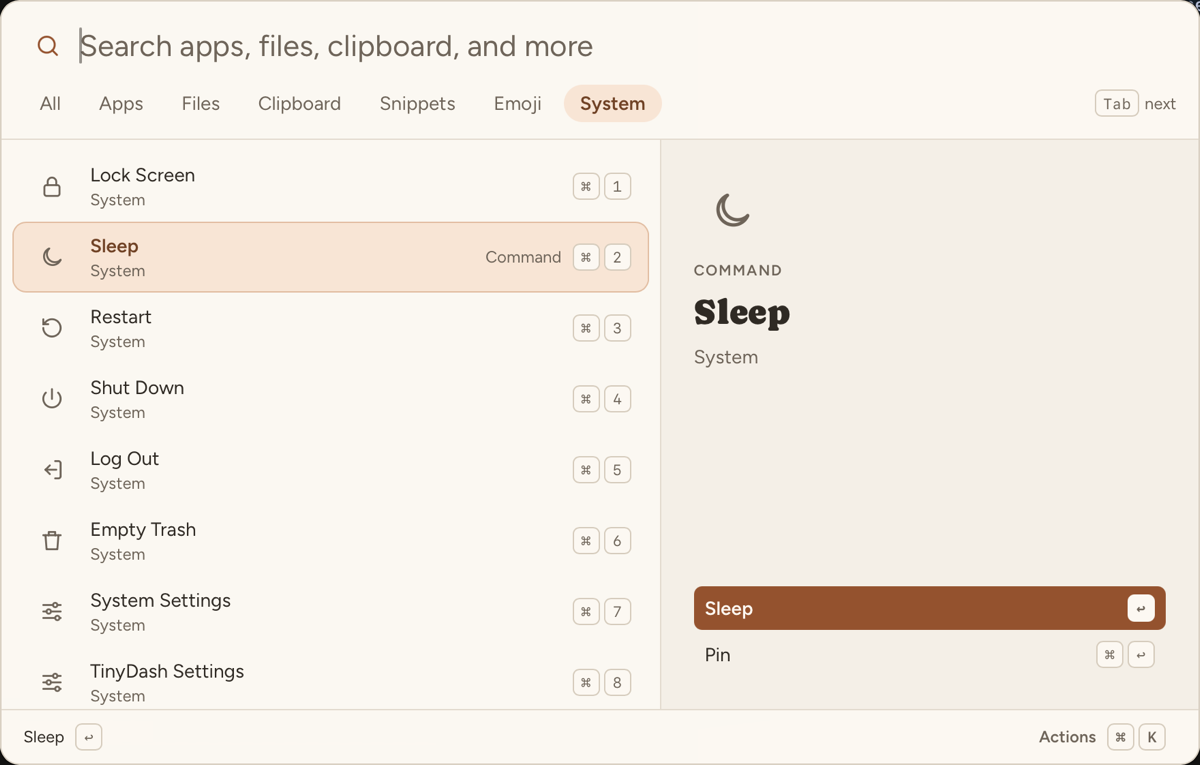
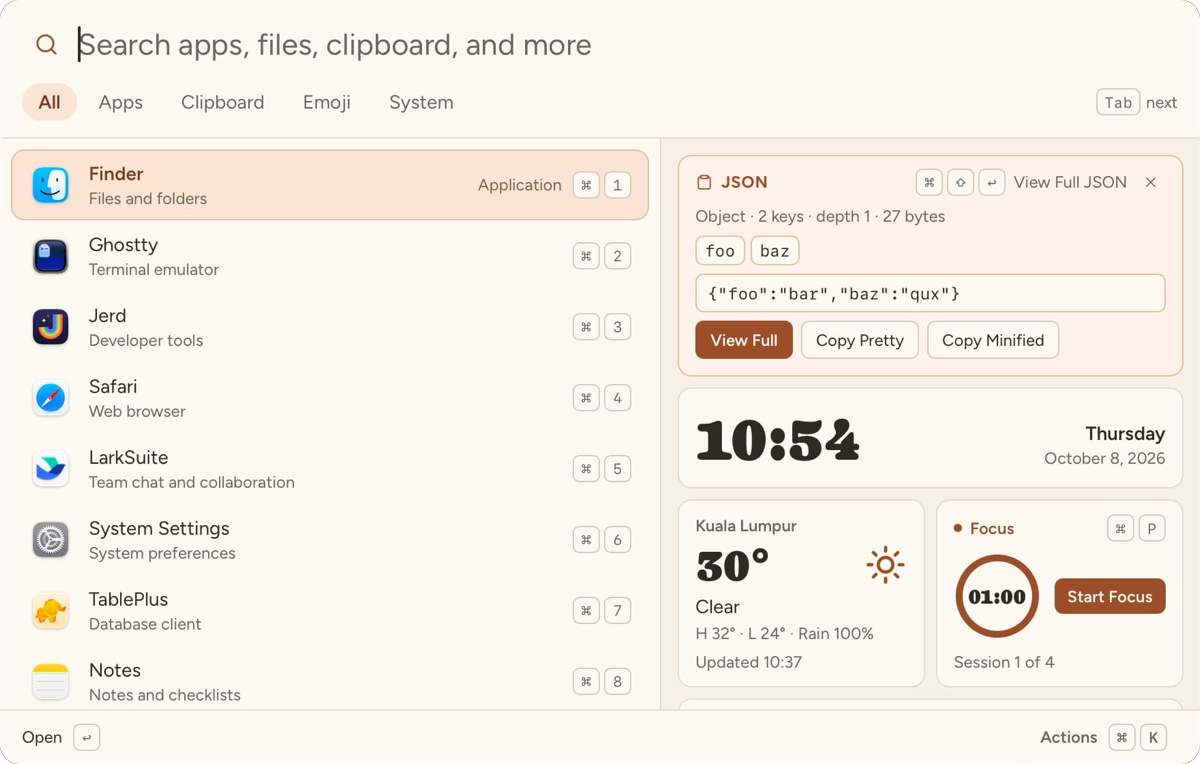
docs: show the widget pane and Settings in the README
Replace the launcher screenshot with one that shows app descriptions and
the widget pane, and add one of Settings. Both are cropped to the window,
with transparent corners and no margin.

diff --git a/README.md b/README.md
@@ -6,7 +6,9 @@ A small, keyboard-first launcher for macOS, Windows, and Linux. Press a shortcut
 - **Answer** calculations, unit and currency conversions, dates, time zones, passwords, and clean URLs.
 - **Stay private:** everything runs on your computer. The only downloads are the daily currency rate table and, on macOS and Windows, a check for new versions on GitHub (you can turn it off) and, when you choose to install one, the new version.
 
-![The TinyDash launcher](docs/screenshot.png)
+![The TinyDash launcher: app results with descriptions, and the widget pane with a clipboard card, clocks, weather, and the focus timer](docs/screenshot.png)
+
+![TinyDash Settings: the General section with the tab order](docs/settings.png)
 
 ## Install
 
